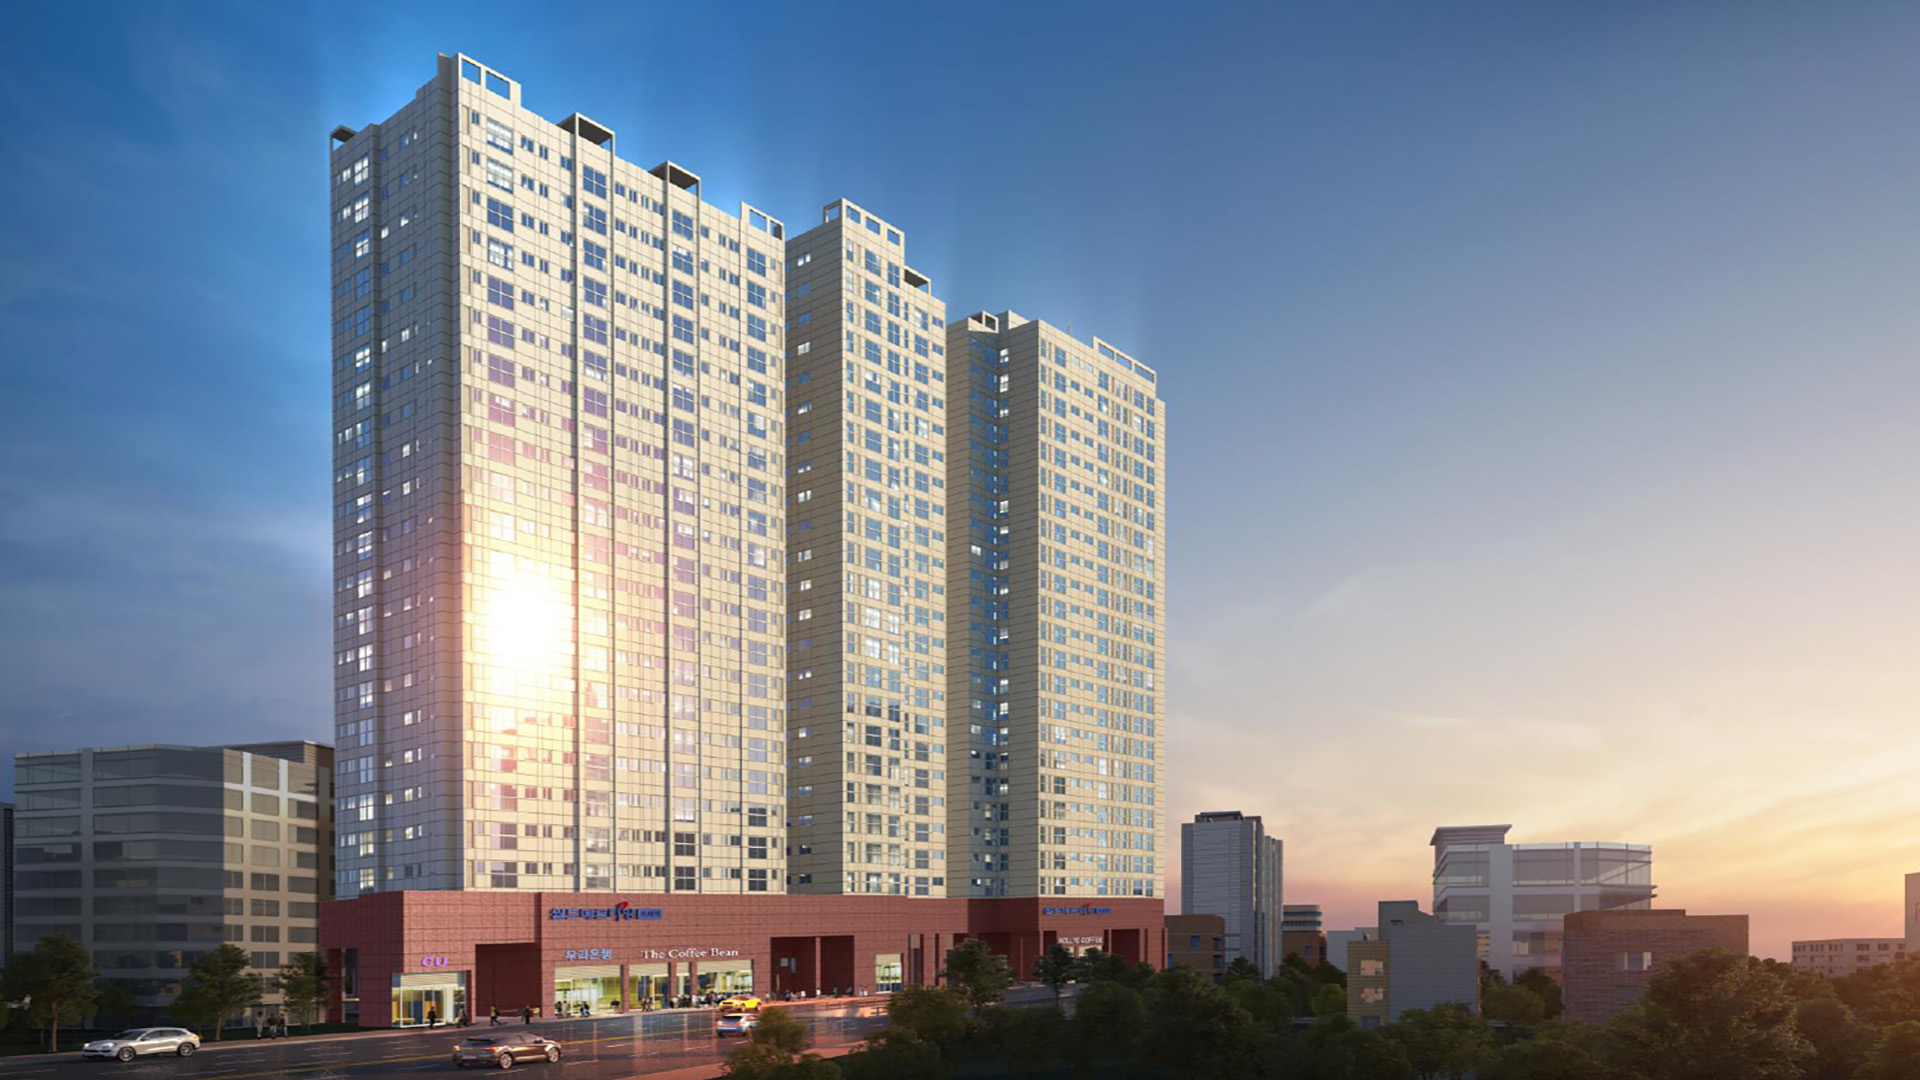
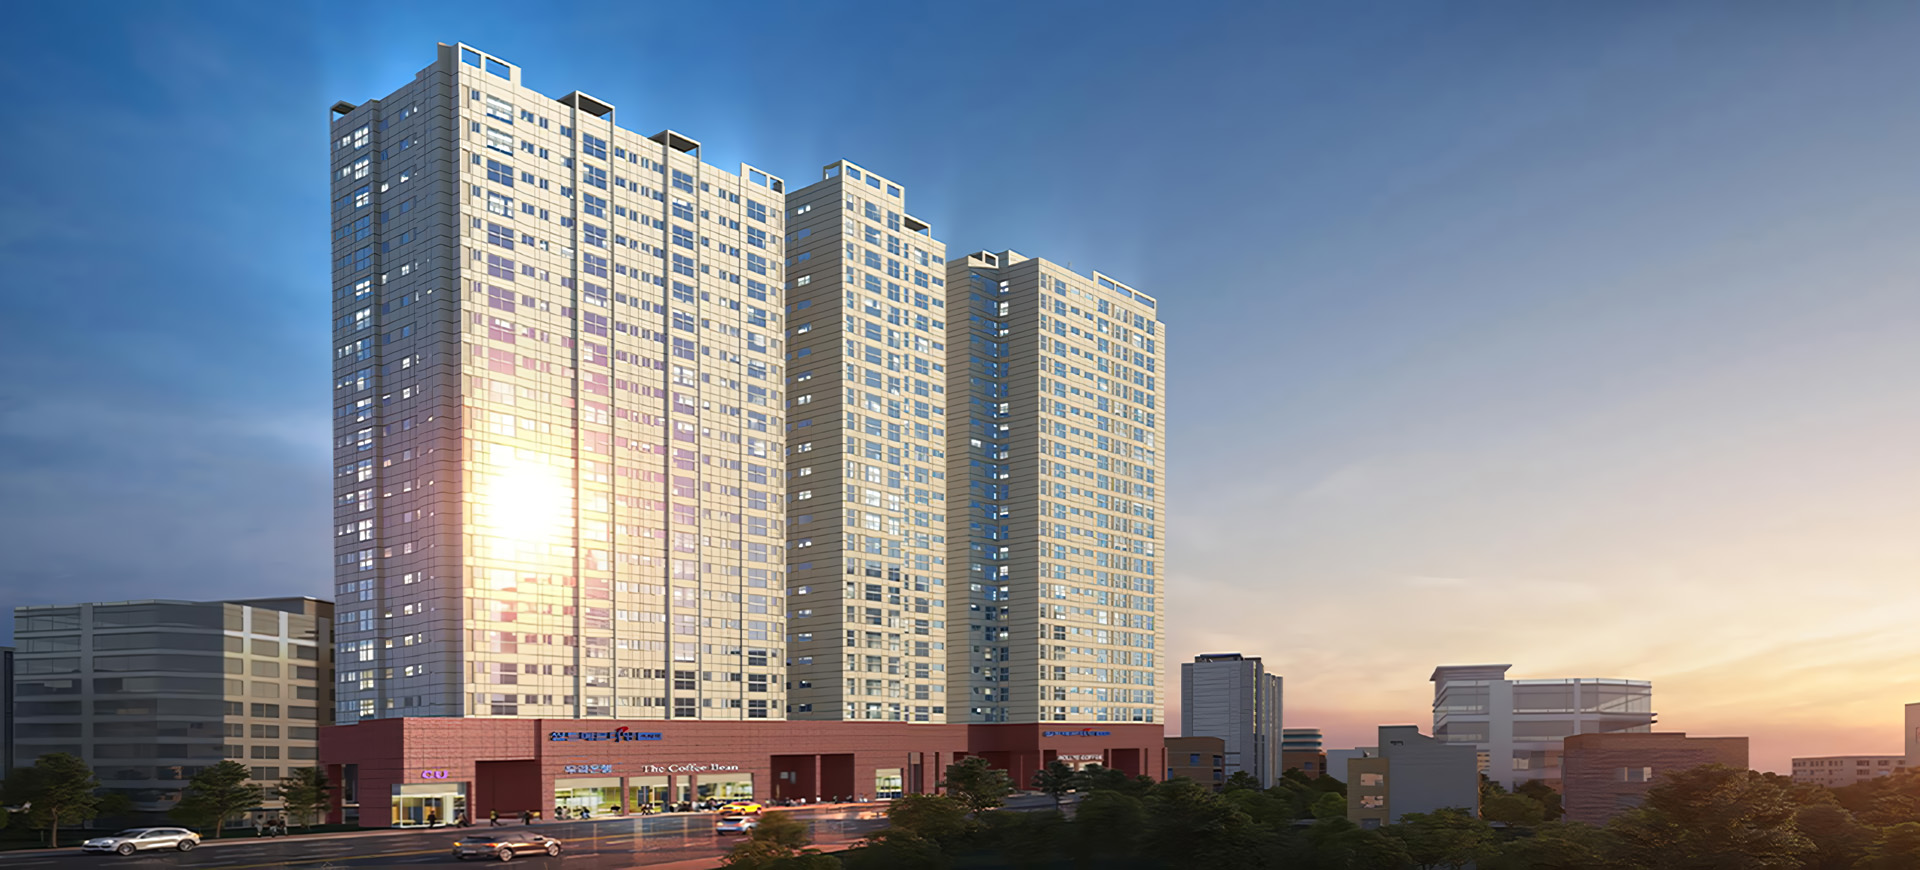
js 슬라이드 구현

diff --git a/JS/main.js b/JS/main.js
@@ -1,0 +1,94 @@
+const main = document.querySelector('.main-content')
+const slide = main.querySelector('.slide-wrap')
+const slideList = slide.querySelector('.slide-list')
+let slideContent = slide.querySelectorAll('.slide-content')
+const slideLen = slideContent.length;
+console.log(slideLen)
+let slideWidth = slideList.clientWidth;
+
+// slideList.style.width = slideWidth * (slideLen) + "px";
+
+let curIndex = 1;
+
+const pagination = document.querySelector(".slide-pagination")
+
+for (let i = 0; i < slideLen; i++) {
+    if (i === 0){
+        pagination.innerHTML += `<li class="active">•</li>`
+    } else {
+        pagination.innerHTML += `<li>•</li>`
+    }
+}
+
+const paginationItem = document.querySelectorAll(".slide-pagination > li")
+
+// 첫번째, 마지막 슬라이드 복사
+const firstSlide = slideContent[0];
+const lastSlide = slideContent[slideContent.length -1];
+const firstElem = document.createElement("li");
+const lastElem = document.createElement("li");
+
+// lastSlide.classList.forEach((c) => lastElem.classList.add(c));
+// lastElem.innerHTML = lastSlide.innerHTML;
+
+// firstSlide.classList.forEach((c) => firstElem.classList.add(c));
+// firstElem.innerHTML = firstSlide.innerHTML;
+
+lastElem.classList.add("slide-content","item2")
+firstElem.classList.add("slide-content","item1")
+
+slideContent[0].before(lastElem);
+slideContent[slideLen - 1].after(firstElem);
+
+slideContent = slide.querySelectorAll('.slide-content')
+
+let offset = slideWidth;
+slideContent.forEach((i) => {
+    i.setAttribute("style", `transform: translateX(${-offset}px);`)
+});
+
+function nextSlide(){
+    curIndex++;
+    if (curIndex <= slideLen) { 
+        const offset = slideWidth * curIndex;
+        slideContent.forEach((i)=> {
+            i.setAttribute("style", `transition: ${1}s; transform: translateX(${-offset}px);`)
+        });
+        paginationItem.forEach((i) => i.classList.remove("action"));
+        paginationItem[curIndex - 1].classList.add("active");
+    } else {
+        curIndex = 0;
+        let offset = slideWidth * curIndex;
+        slideContent.forEach((i) => {
+            i.setAttribute("style", `transform: translateX(${-offset}px);`)
+        });
+        curIndex++;
+        offset = slideWidth * curIndex;
+        setTimeout(() => {
+            slideContent.forEach((i) => {
+                i.setAttribute("style", `transition: ${1}s; transform: translateX(${-offset}px);`)
+            });
+        }, 0);
+        paginationItem.forEach((i) => {
+            i.classList.remove("action")
+        });
+        paginationItem[curIndex - 1].classList.add("active")
+    }
+}
+
+let startPoint = 0;
+let endPoint = 0;
+
+slide.addEventListener("mousedown", (e) => {
+    console.log(e.pageX)
+    startPoint = e.pageX;
+});
+
+slide.addEventListener("mouseup", (e) => {
+    endPoint = e.pageX;
+    if (startPoint < endPoint) {
+        // prevMove();
+    } else if (startPoint > endPoint) {
+        nextSlide()
+    }
+})

diff --git a/style/style.css b/style/style.css
@@ -7,17 +7,21 @@ header {
     display: flex;
     flex-direction: row;
     justify-content: space-between;
+    align-items: center;
     position: fixed;
-    background-color:rgb(255, 255, 255, 0.7);
-    padding: 0 5rem;
+    background-color:rgb(36, 45, 77);
+    padding: 0 30px;
+    color: #ffff;
+    top: 0;
 }
 
 .main-logo {
-    width: 25rem;
-    padding: 1rem 0;
+    width: 240px;
+    padding: 16px 16px 8px;
+    background-color: #ffff;
+    border-radius: 0 0 20px 20px;
+    margin-bottom: 16px;
 }
-
-
 
 .menu {
     display: flex;
@@ -37,29 +41,83 @@ header {
 
 .menu li {
     /* border: 1px solid #000; */
-    background-color: #242d4d;
+    background-color: rgb(36, 45, 77);
     border-radius: 0.5rem;
     padding: 0.6rem;
+    font-size: 1.2rem;
+    font-weight: 500;
+}
+
+.tell-number {
     font-size: 2rem;
-    font-weight: 600;
-    color: rgba(255, 255, 255, 1);
+    text-decoration: none;
+    color: #ffff;
 }
-
-
-
+/* main 시작 */
 .main-content {
-    margin: 0 auto;
+    margin: 91px auto 0;
 }
 
-.img-scroll {
+/* 슬라이드 스타일 */
+.slide-wrap {
     width: 100%;
-    height: 100vh;
-    background-image: url(/src/image/월드메홈.jpg);
-    background-size: cover
-
+    height: calc(100vh - 91px);
+    overflow: hidden;
 }
 
-.main-contant article {
+.slide-list {
+    width: 100%;
+    height: 100%;
+    display: flex;
+}
+
+.slide-content {
+    display: flex;
+    align-items: center;
+    justify-content: center;
+
+    width: 100%;
+    height: 100%;
+    
+    transform: translateX(0px);
+
+    flex-shrink: 0;
+
+    background-size: cover;
+    background-position: center center;
+    /* background-repeat: no-repeat; */
+    /* background-attachment: fixed; */
+    /* transition: 1s; */
+}
+
+.slide-content.item1 {
+    background-image: url(/src/image/월드메홈.jpg);
+}
+
+.slide-content.item2 {
+    background-image: url(/src/image/월드메홈2.jpg);
+}
+
+.slide-pagination {
+    display: flex;
+    gap: 5px;
+    position: absolute;
+    bottom: 0;
+    left: 50%;
+    transform: translateX(-50%);
+}
+
+.slide-pagination > li {
+    color: gray;
+    cursor: pointer;
+    font-size: 5rem;
+}
+
+.slide-pagination > li.active {
+    color: black;
+}
+
+.main-content article {
     margin: 3rem auto 0;
     display: flex;
     flex-direction: row;
@@ -70,7 +128,7 @@ header {
     border: 1px solid #000;
 }
 
-.main-contant article a {
+.main-content article a {
     text-decoration: none;
     color: #000;
     font-weight: 900;

diff --git a/index.html b/index.html
@@ -13,38 +13,43 @@
 
     <header>
         <h1 class="ir-hidden">월드메르디앙</h1>    
-            <img class="main-logo" src="/src/image/LOGO/20221117 - mainLogo2.png" alt="월드메르디앙 로고">
-            <nav class="menu">
-                <ul class="menu-list">
-                    <li>사업개요</li>
-                    <li>타입</li>
-                    <li>입지환경</li>
-                    <li>단지안내</li>
-                    <!-- <li></li>
-                    <li></li>
-                    <li></li>
-                    <li></li>
-                    <li></li> -->
-                </ul>
-            </nav>
-        <h1 class="ir-hidden">월드메르디앙</h1>
+        <img class="main-logo" src="/src/image/LOGO/20221117 - mainLogo2.png" alt="월드메르디앙 로고">
+        <nav class="menu">
+            <ul class="menu-list">
+                <li>사업개요</li>
+                <li>타입</li>
+                <li>입지환경</li>
+                <li>단지안내</li>
+                <!-- <li></li>
+                <li></li>
+                <li></li>
+                <li></li>
+                <li></li> -->
+            </ul>
+        </nav>
+        <a href="tel:1661-3882" class="tell-number">1661-3822</a>
     </header>
 
     <main class="main-content">
         <!-- 최상단 이미지 스크롤 -->
-        <div class="img-scroll">
+        <div class="slide-wrap">
+            <ul class="slide-list">
+                <li class="slide-content item1"></li>
+                <li class="slide-content item2"></li>
+                <ul class="slide-pagination"></ul>
+            </ul>
         </div>
 
         <article>
-            <a href="tel:000-0000-0000">
+            <a href="tel:1661-3882">
                 <p class="number">대표전화</p>
-                <p>1234-1234</p>
+                <p>1661-3882</p>
             </a>
         </article>
 
         <section class="contant-one">
             <h1>사업소개</h1>
-            <img src="/src/image/사업 소개/20221117 - 월드메르디앙 소사 교육자료-1-3-page-00002.jpg" alt="">
+            <!-- <img src="/src/image/사업 소개/20221117 - 월드메르디앙 소사 교육자료-1-3-page-00002.jpg" alt=""> -->
         </section>
     </main>
 
@@ -56,7 +61,7 @@
             <dt>Copyright © 2023 월드메르디앙 소사역. All Rights Reserved.</dt>
         </dl>
     </footer>
-
+    <script src="/JS/main.js"></script>
 </body>
 
 </html>
